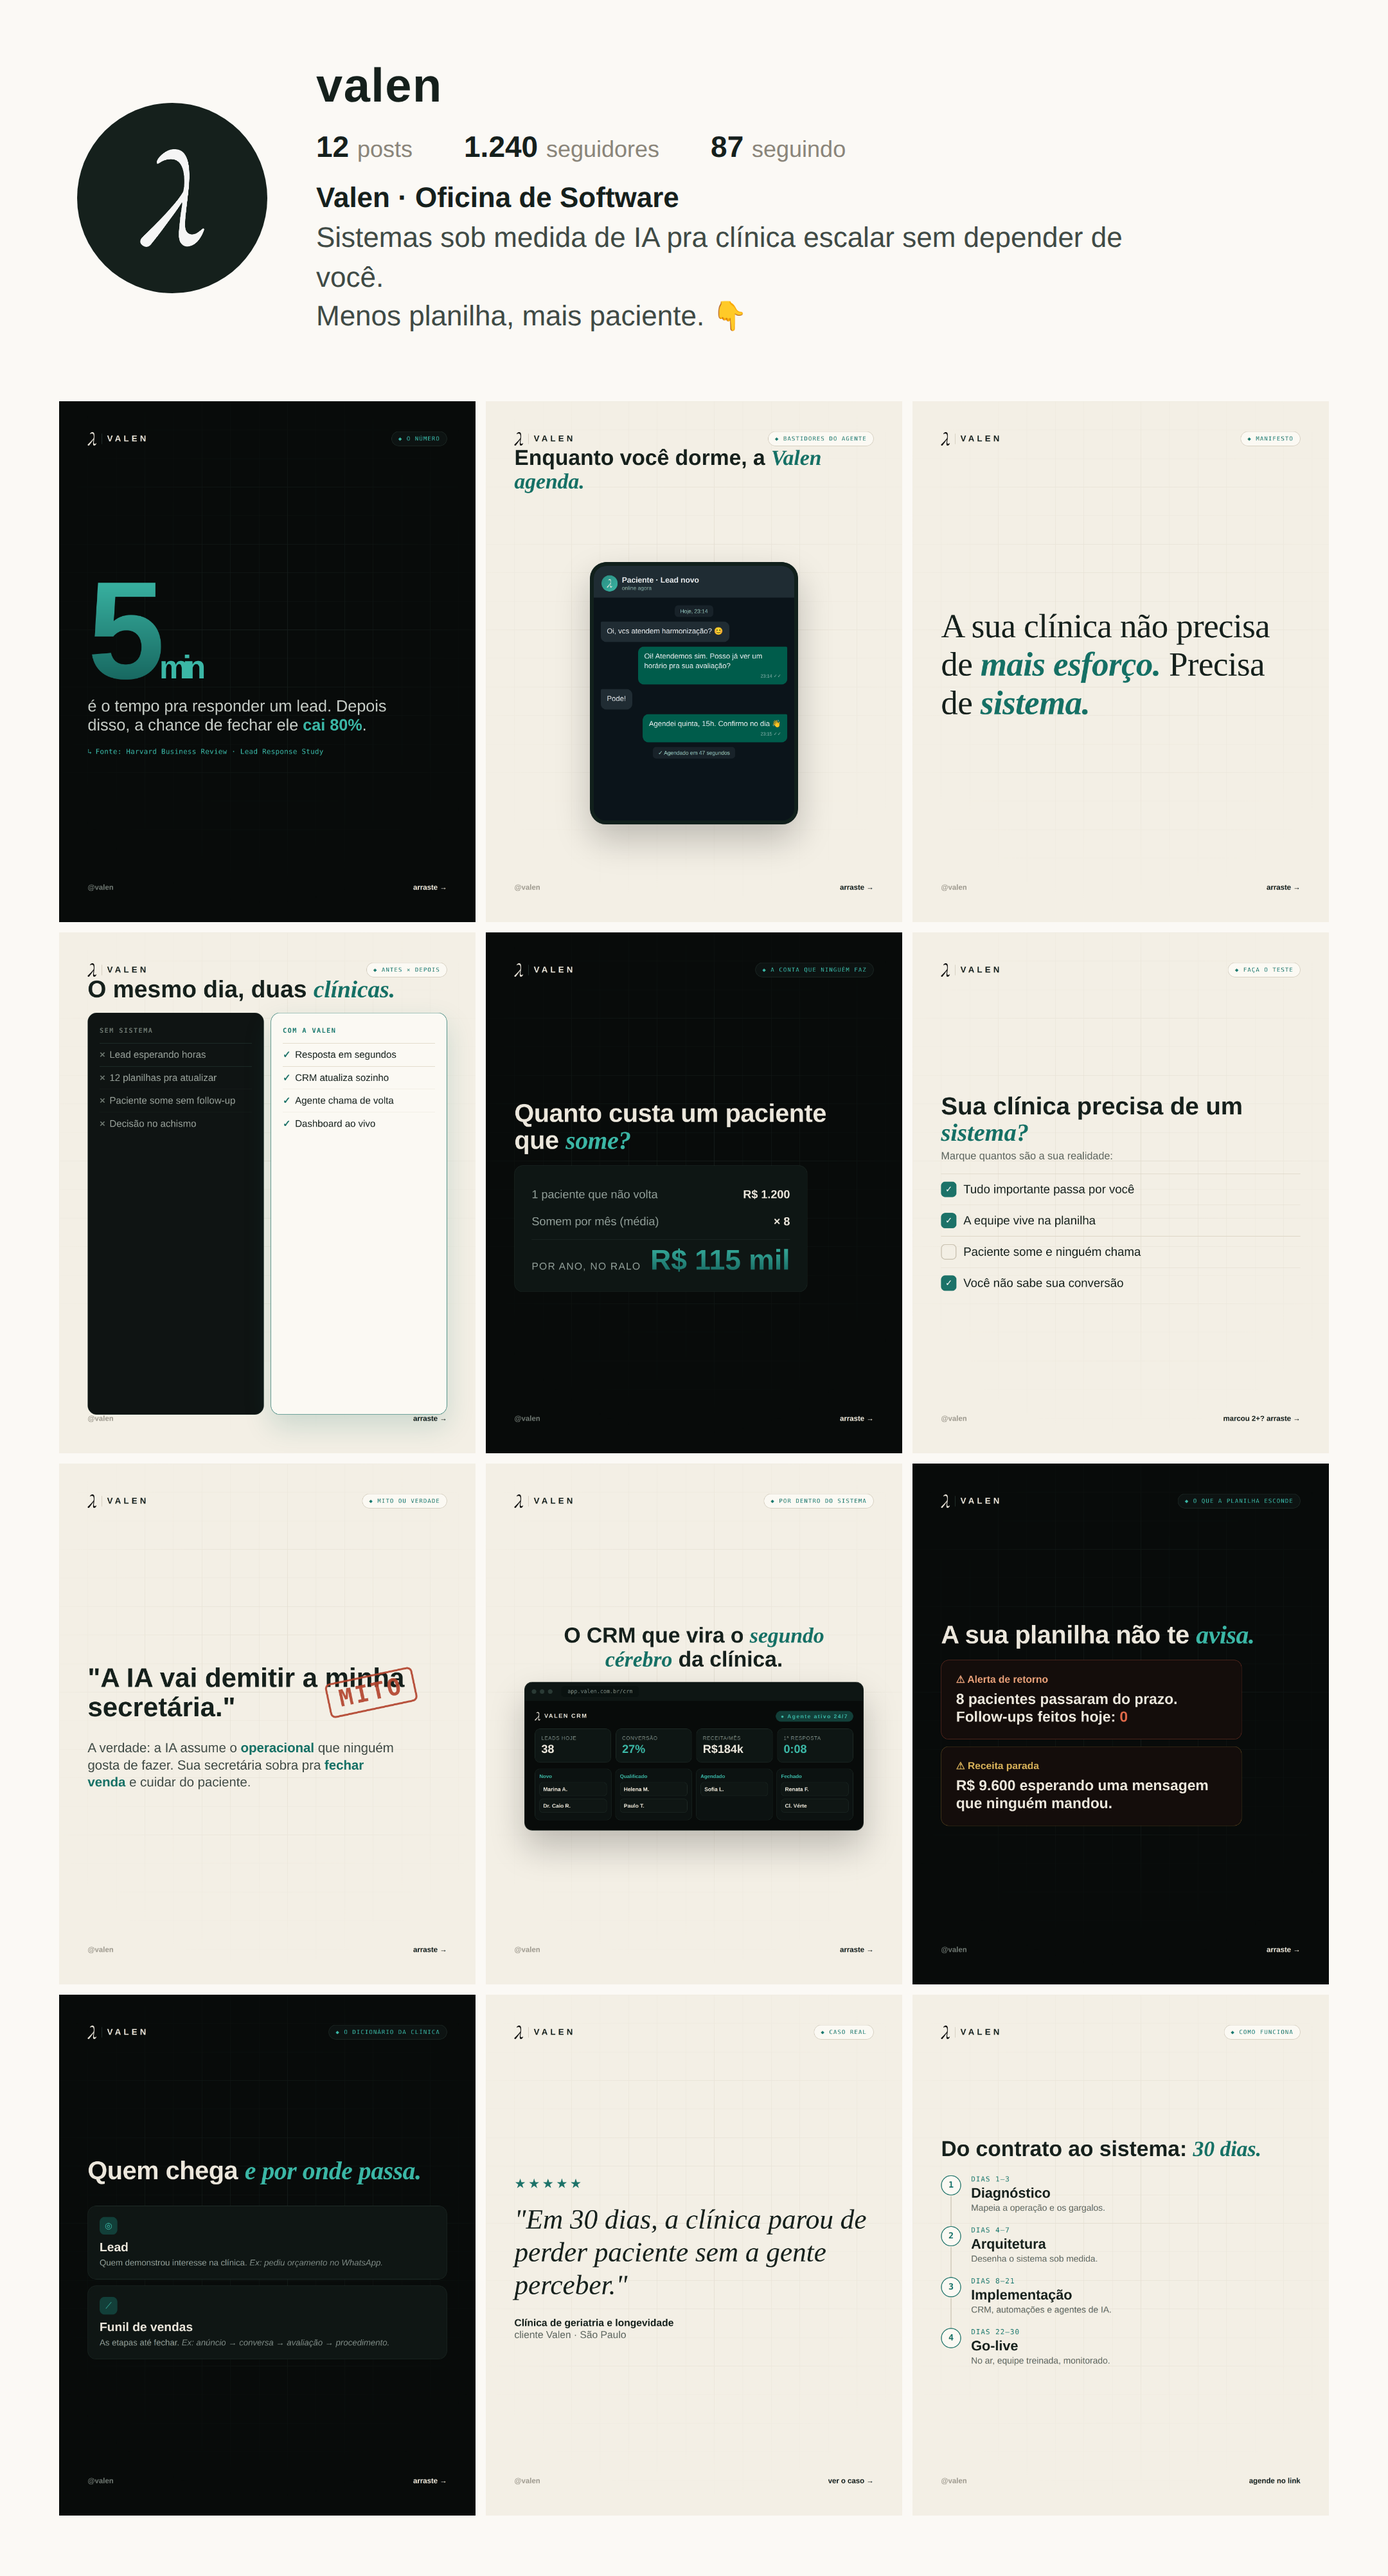
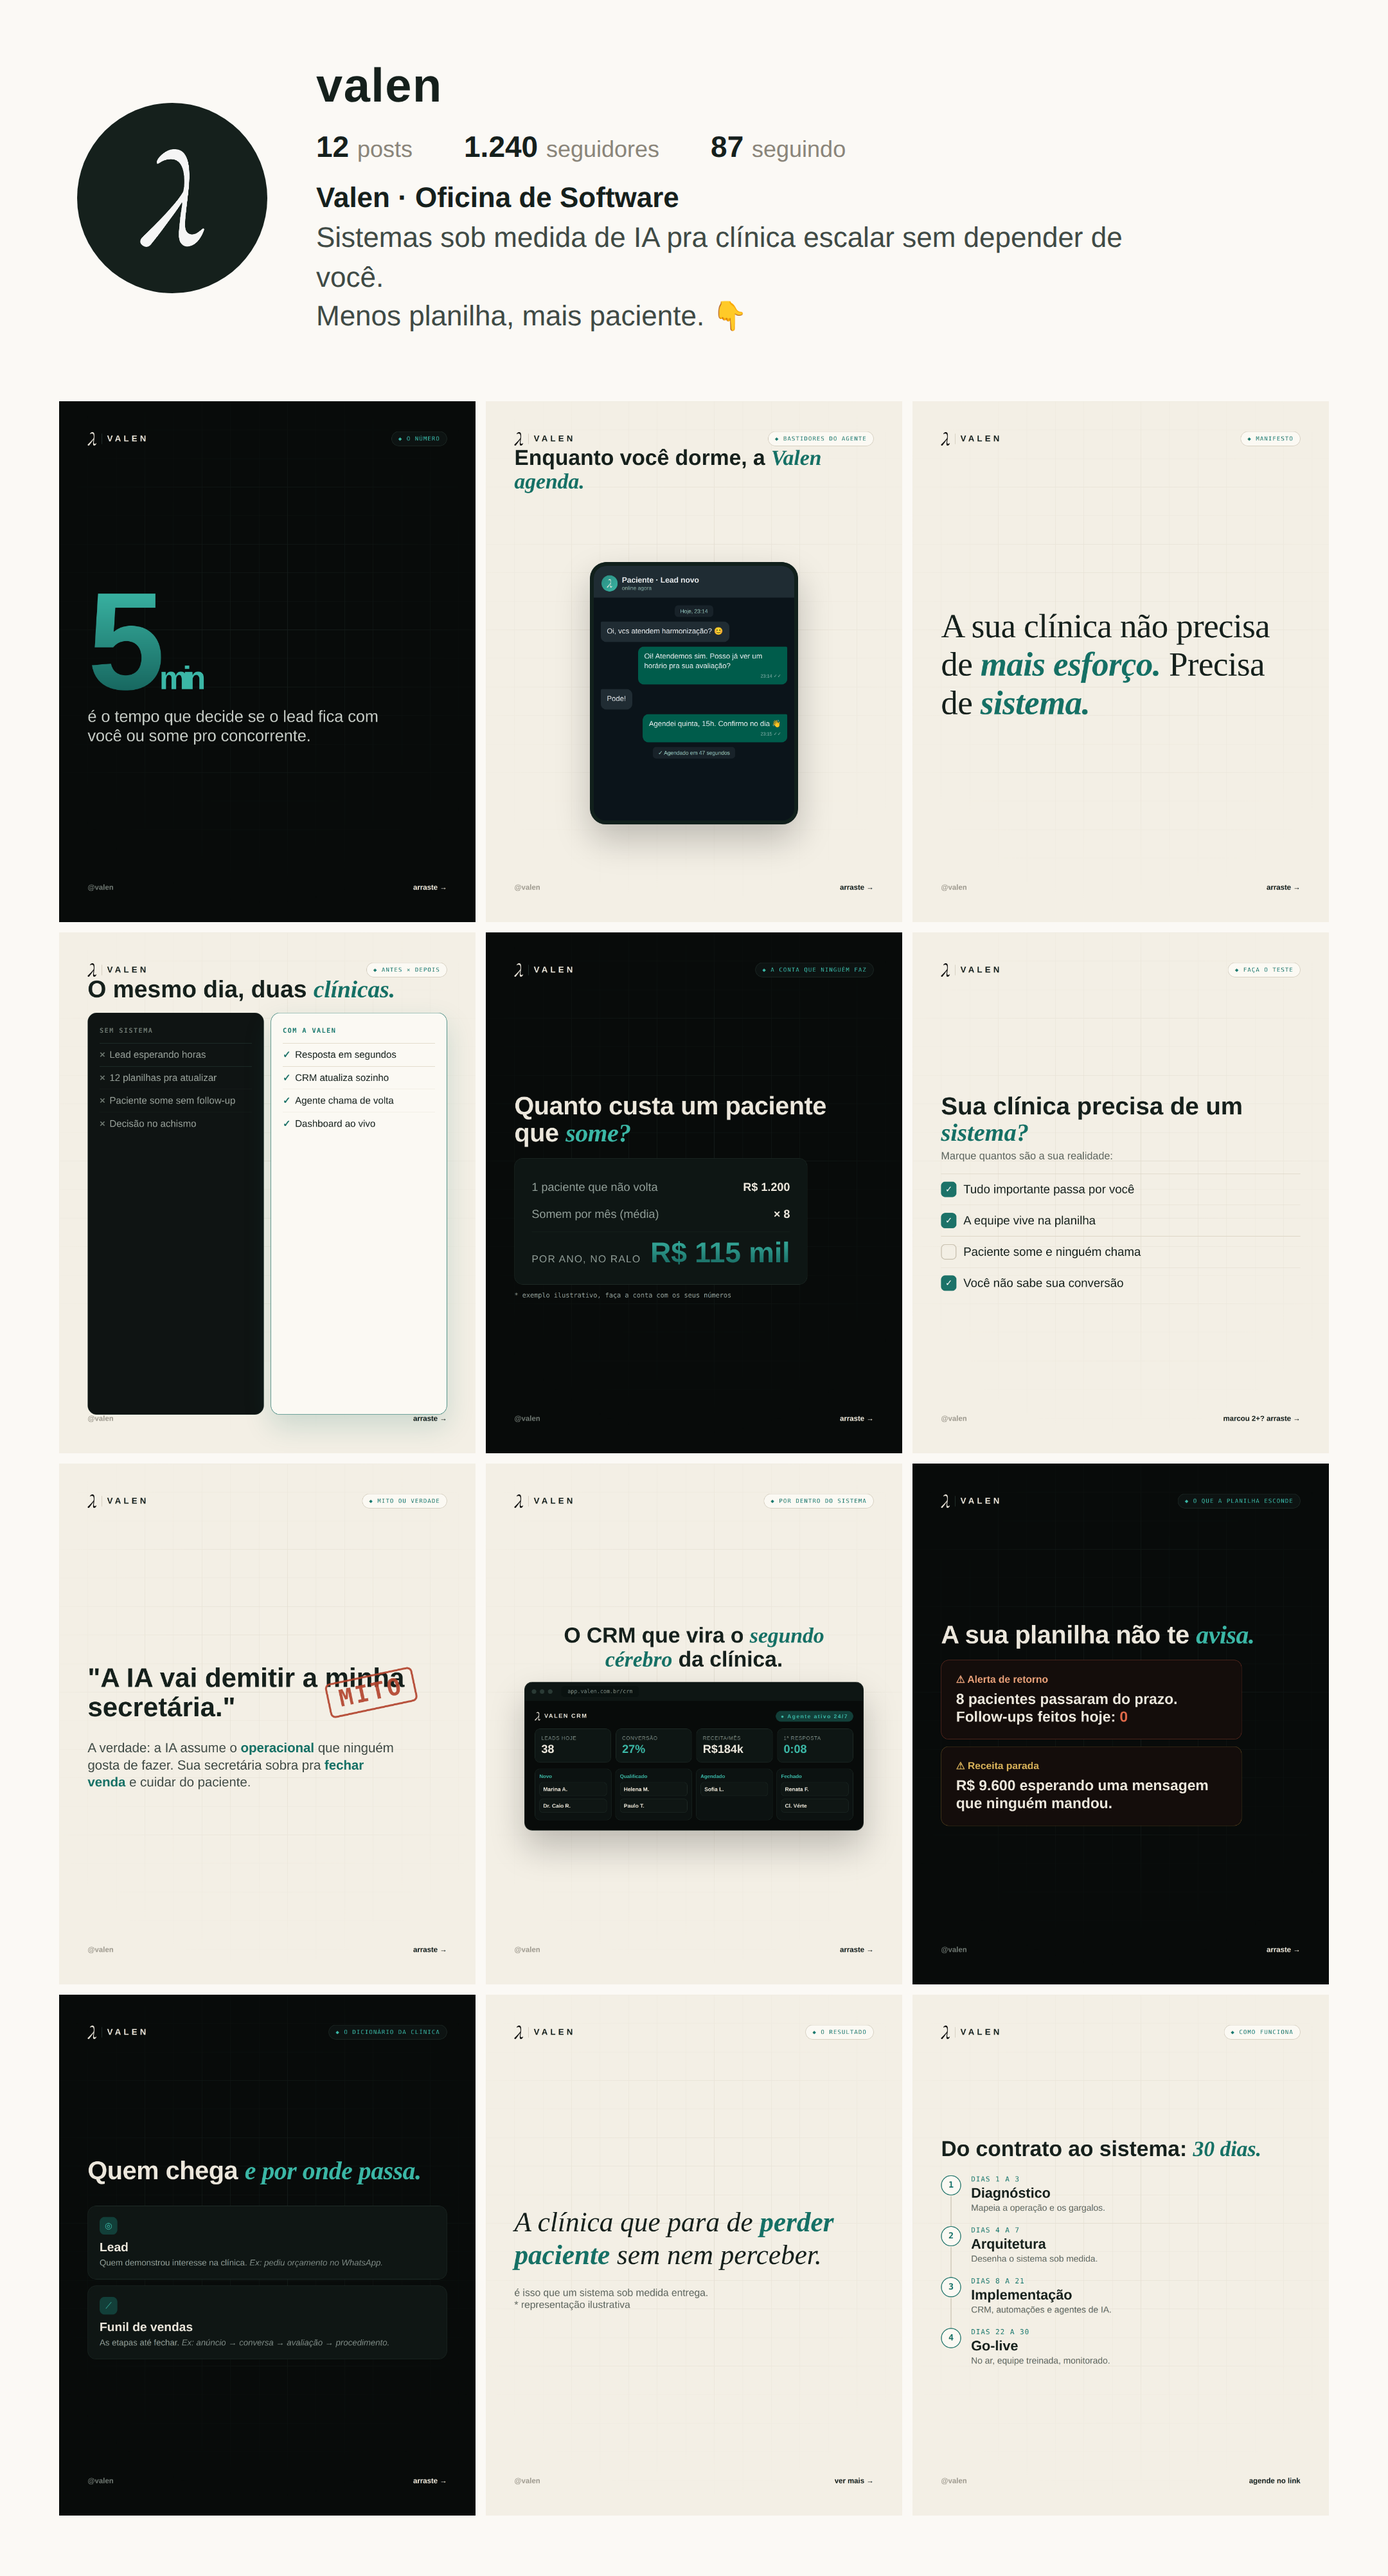
fix: remove todos travessoes e dados reais (feed, carrosseis, landing, deck)
- Feed: F-01 sem 80%/Harvard, F-05 marcado como exemplo, F-11 ilustrativo
  (sem depoimento falso), F-12 ranges 'Dias 1 a 3'
- gen-posts: removido stat HBR, travessao do exemplo corrigido
- landing (content.ts) e deck Allace: travessoes trocados por pontuacao

Changed region(s): [[0.3722, 0.4056, 0.5894, 0.4993], [0.062, 0.2184, 0.2792, 0.312], [0.3722, 0.8425, 0.5894, 0.9049]]

diff --git a/decks/allace-diagnostico.html b/decks/allace-diagnostico.html
@@ -3,7 +3,7 @@
 <head>
 <meta charset="utf-8" />
 <meta name="viewport" content="width=device-width, initial-scale=1, viewport-fit=cover" />
-<title>Allace — Diagnóstico e Plano de Ação · Valen</title>
+<title>Allace · Diagnóstico e Plano de Ação · Valen</title>
 <link rel="preconnect" href="https://fonts.googleapis.com">
 <link rel="preconnect" href="https://fonts.gstatic.com" crossorigin>
 <link href="https://fonts.googleapis.com/css2?family=Geist:wght@400;500;600;700;800&family=Geist+Mono:wght@500;600&family=Playfair+Display:ital,wght@0,500;0,600;1,500;1,600&display=swap" rel="stylesheet">
@@ -248,12 +248,12 @@
       </div>
 
       <div class="stack mt-4" style="gap:14px">
-        <p class="lead">O depósito atual cobra <span class="ink bold">toda vez</span> que alguém abre um arquivo — não importa se é o mesmo PDF visto pela terceira vez no mesmo dia.</p>
+        <p class="lead">O depósito atual cobra <span class="ink bold">toda vez</span> que alguém abre um arquivo. Não importa se é o mesmo PDF visto pela terceira vez no mesmo dia.</p>
         <p class="lead">Com 3 pessoas da equipe (Dra. Andresa, Letícia e Duda) abrindo conversas várias vezes ao dia, e mídias pesadas se acumulando, o custo de "entrega" dos arquivos subia todo mês.</p>
       </div>
       <div class="badge mt-3" style="background:var(--amber-soft);border:1px solid var(--amber-line)">
         <span class="mono ink bold" style="font-size:clamp(20px,3vw,28px)">9 GB / mês</span>
-        <span class="lead" style="color:var(--muted)">de tráfego — quase o <span class="ink bold">dobro</span> do previsto</span>
+        <span class="lead" style="color:var(--muted)">de tráfego, quase o <span class="ink bold">dobro</span> do previsto</span>
       </div>
     </div>
   </section>
@@ -264,7 +264,7 @@
     <div class="container">
       <div class="eyebrow">A solução</div>
       <h2 class="title mt-2">Um segundo depósito, sob medida</h2>
-      <p class="subtitle mt-1">Cloudflare R2 — armazenamento de mídia profissional</p>
+      <p class="subtitle mt-1">Cloudflare R2 · armazenamento de mídia profissional</p>
       <div class="grid2 mt-4">
         <div class="stack" style="gap:16px">
           <p class="lead">A Cloudflare é uma das maiores empresas de infraestrutura de internet do mundo. Quase <span class="ink bold">20% de todo o tráfego web do planeta</span> passa por ela.</p>
@@ -273,7 +273,7 @@
             <p class="lead" style="color:var(--ink)"><span class="teal bold">•</span>&nbsp; Guardar arquivos: <span class="ink bold">custa centavos.</span></p>
             <p class="lead" style="color:var(--ink)"><span class="teal bold">•</span>&nbsp; Abrir / baixar arquivos: <span class="teal bold">GRÁTIS, sempre.</span></p>
           </div>
-          <p class="lead">É como contratar um depósito que cobra só o aluguel do espaço — e <span class="ink bold">nunca cobra entrega</span>, mesmo que você abra a mesma caixa mil vezes.</p>
+          <p class="lead">É como contratar um depósito que cobra só o aluguel do espaço, e <span class="ink bold">nunca cobra entrega</span>, mesmo que você abra a mesma caixa mil vezes.</p>
         </div>
         <div class="card">
           <p class="eyebrow" style="margin-bottom:18px">Quem guarda mídia na Cloudflare</p>
@@ -320,15 +320,15 @@
       <h2 class="title mt-2">Quanto custa o novo depósito</h2>
       <div class="table mt-4">
         <div class="trow head"><span>Item</span><span>Valor mensal</span></div>
-        <div class="trow"><span class="ti">Armazenamento (no nosso volume)</span><span class="tv">R$ 0 – R$ 1</span></div>
+        <div class="trow"><span class="ti">Armazenamento (no nosso volume)</span><span class="tv">R$ 0 a R$ 1</span></div>
         <div class="trow"><span class="ti">Tráfego de saída (downloads)</span><span class="tv teal">R$ 0 (grátis)</span></div>
         <div class="trow"><span class="ti">Configuração inicial</span><span class="tv">R$ 0</span></div>
-        <div class="trow total"><span class="ti">Custo total previsto</span><span class="tv">R$ 0 – R$ 1</span></div>
+        <div class="trow total"><span class="ti">Custo total previsto</span><span class="tv">R$ 0 a R$ 1</span></div>
       </div>
       <div class="stack mt-3" style="gap:16px">
-        <p class="lead" style="font-size:clamp(14px,1.75vw,17px)">O R2 oferece <span class="ink bold">10 GB de armazenamento sem custo</span> — muito acima dos 407 MB que usamos hoje. Mesmo que a mídia da clínica triplique no próximo ano, ainda estaremos dentro do limite sem custo.</p>
+        <p class="lead" style="font-size:clamp(14px,1.75vw,17px)">O R2 oferece <span class="ink bold">10 GB de armazenamento sem custo</span>, muito acima dos 407 MB que usamos hoje. Mesmo que a mídia da clínica triplique no próximo ano, ainda estaremos dentro do limite sem custo.</p>
         <div class="card" style="padding:clamp(16px,2vw,22px)">
-          <p class="ink" style="font-size:clamp(15px,1.9vw,19px);line-height:1.5"><span class="bold">A diferença entre manter como está e migrar é da ordem de <span class="teal">R$ 140 por mês</span> economizados em infraestrutura.</span> Esse é o ganho que permite manter a mensalidade congelada — sem repassar custo pra vocês.</p>
+          <p class="ink" style="font-size:clamp(15px,1.9vw,19px);line-height:1.5"><span class="bold">A diferença entre manter como está e migrar é da ordem de <span class="teal">R$ 140 por mês</span> economizados em infraestrutura.</span> Esse é o ganho que permite manter a mensalidade congelada, sem repassar custo pra vocês.</p>
         </div>
       </div>
     </div>
@@ -352,7 +352,7 @@
         <div class="commit hl"><span class="ck">✓</span><p><span class="bold">Mensalidade R$ 1.000 CONGELADA</span> até o fim do contrato anual. Sem repasse de custo extra nesse período.</p></div>
         <div class="commit"><span class="ck">✓</span><p><span class="bold">Migração em até 7 dias</span>, sem indisponibilidade. Tudo em segundo plano, vocês continuam usando normal.</p></div>
         <div class="commit"><span class="ck">✓</span><p><span class="bold">Backup integral mantido</span> durante todo o processo. Risco zero de perda de dados.</p></div>
-        <div class="commit"><span class="ck">✓</span><p><span class="bold">Próximo ciclo anual:</span> modelo estruturado, com aviso prévio de 90 dias e reajuste pelo IGPM. Discussão pro próximo ciclo — não pra agora.</p></div>
+        <div class="commit"><span class="ck">✓</span><p><span class="bold">Próximo ciclo anual:</span> modelo estruturado, com aviso prévio de 90 dias e reajuste pelo IGPM. Discussão pro próximo ciclo, não pra agora.</p></div>
       </div>
 
       <p class="serif center mt-3" style="font-style:italic;color:var(--muted);font-size:clamp(15px,1.9vw,20px);line-height:1.5;max-width:840px;margin-left:auto;margin-right:auto">

diff --git a/src/lib/content.ts b/src/lib/content.ts
@@ -1,5 +1,5 @@
 /**
- * Conteúdo da landing — derivado do Debriefing Estratégico da Valen.
+ * Conteudo da landing, derivado do Debriefing Estrategico da Valen.
  * Centralizado aqui pra editar copy sem mexer em componente.
  */
 
@@ -20,7 +20,7 @@ export const hero = {
 } as const;
 
 export const stats = [
-  { value: "5 min", label: "é o limite. Depois disso, o lead converte 80% menos." },
+  { value: "5 min", label: "é o tempo que decide se o lead fica com você ou some pro concorrente." },
   { value: "30 dias", label: "do contrato ao sistema no ar, com data no contrato." },
   { value: "24/7", label: "atendimento e follow-up que não falta, não dorme, não some." },
 ] as const;
